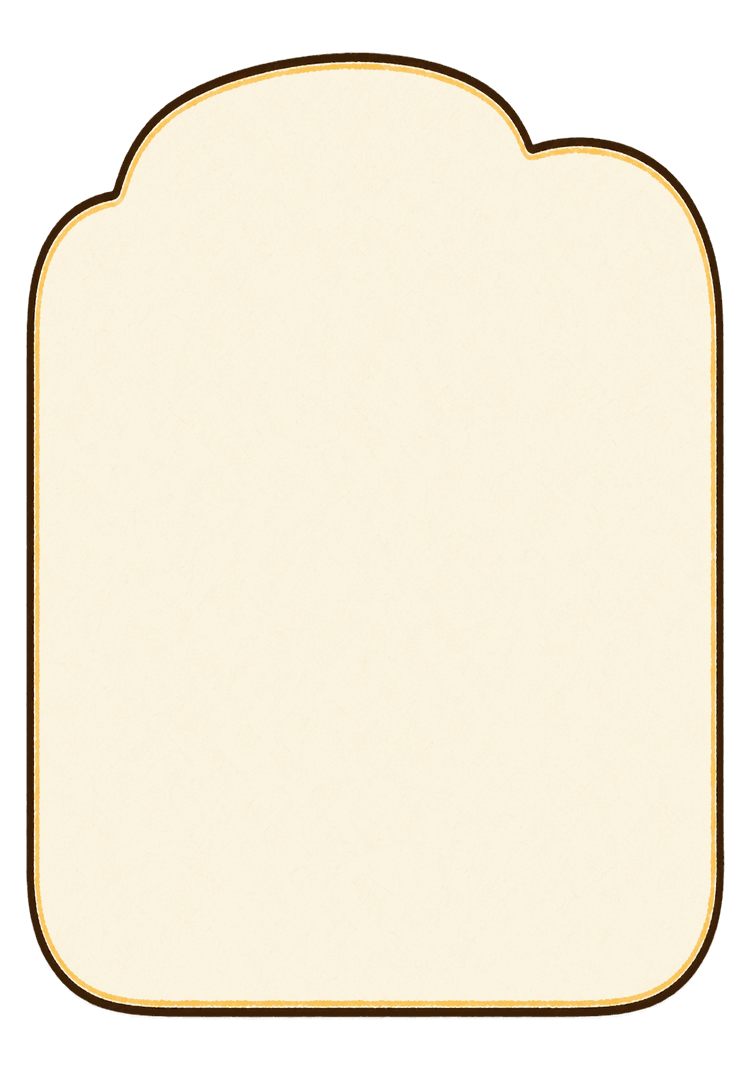
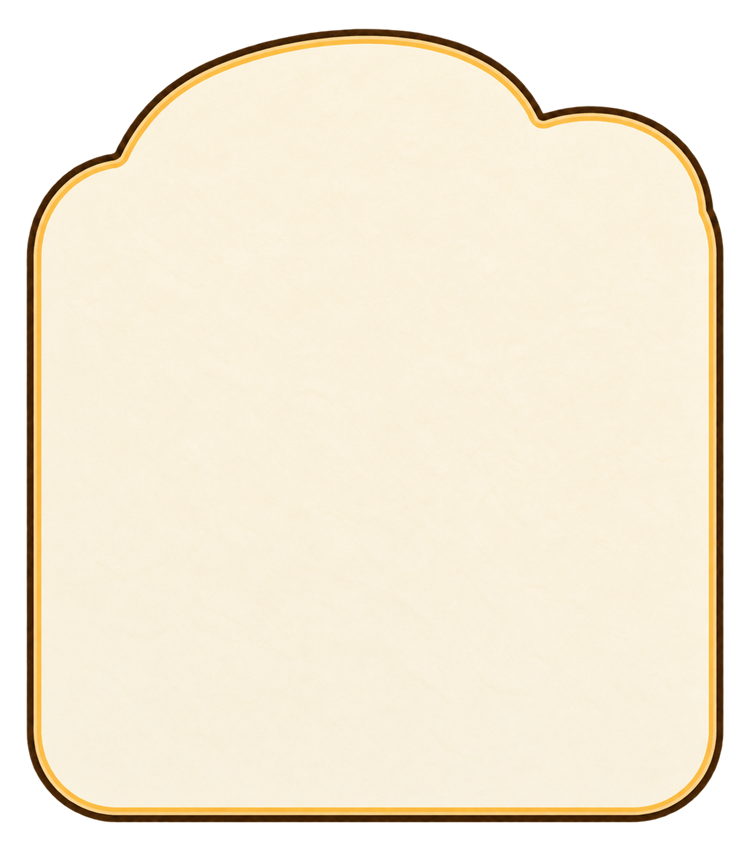
优化了设置弹窗的ui

Changed region(s): [[0.0307, 0.0305, 0.9813, 0.9754]]

diff --git a/assets/script/PauseOverlayController.ts b/assets/script/PauseOverlayController.ts
@@ -30,28 +30,32 @@ const PAUSE_PANEL_HIDDEN_GAP = 32
 const AUDIO_MUSIC_VOLUME_KEY = 'play.audio.musicVolume'
 // 音效音量本地存储键。
 const AUDIO_SOUND_EFFECT_KEY = 'play.audio.soundEffectVolume'
-// 游戏中设置弹窗按 750 × 1334 定稿适配；新版手记面板仍保留足够的横向安全边距。
-const PAUSE_PANEL_WIDTH = 680
-const PAUSE_PANEL_HEIGHT = 900
-const HOME_SETTINGS_PANEL_HEIGHT = 740
-// 设置面板内部已经按定稿比例排好，只统一缩放根节点，避免单独调整控件再次产生错位。
+// 游戏中设置弹窗按 750 × 1334 定稿适配，宽高比与最终设计稿保持一致。
+const PAUSE_PANEL_WIDTH = 660
+const PAUSE_PANEL_HEIGHT = 750
+const HOME_SETTINGS_PANEL_HEIGHT = 750
+// 设置面板内部按统一比例排版，避免不同屏幕上单独拉伸导致错位。
 const SETTINGS_PANEL_SCALE = 0.86
-const PAUSE_AUDIO_ROW_WIDTH = 600
-const PAUSE_AUDIO_ROW_TOUCH_HEIGHT = 150
+const PAUSE_AUDIO_ROW_WIDTH = 560
+const PAUSE_AUDIO_ROW_TOUCH_HEIGHT = 140
 // 音量卡片素材上下带透明留白，显示高度需要按有效内容比例补偿。
-const PAUSE_AUDIO_ROW_ART_HEIGHT = 264
+const PAUSE_AUDIO_ROW_ART_HEIGHT = 245
 const PAUSE_UTILITY_BUTTON_WIDTH = 230
 const PAUSE_UTILITY_BUTTON_HEIGHT = 90
-const PAUSE_GAME_BUTTON_WIDTH = 250
-const PAUSE_GAME_BUTTON_HEIGHT = 88
+const PAUSE_GAME_ACTION_WIDTH = 170
+const PAUSE_GAME_ACTION_HEIGHT = 160
+const PAUSE_GAME_ACTION_ICON_SIZE = 128
+const PAUSE_REPLAY_ACTION_ICON_SIZE = 140
+const PAUSE_CLOSE_ACCENT_WIDTH = 220
+const PAUSE_CLOSE_ACCENT_HEIGHT = 110
 // 滑块轨道略向右收窄，并把旋钮活动区内缩半个旋钮宽度，避免静音时压住左侧图标。
-const PAUSE_SLIDER_TRACK_WIDTH = 324
+const PAUSE_SLIDER_TRACK_WIDTH = 288
 // 填充图左右各约 7% 为透明留白，放大画布后可让实际金色部分与空轨道边缘重合。
-const PAUSE_SLIDER_FILL_ART_WIDTH = 376
+const PAUSE_SLIDER_FILL_ART_WIDTH = 334
 const PAUSE_SLIDER_TRACK_CENTER_X = 0
-const PAUSE_SLIDER_KNOB_WIDTH = 90
-const PAUSE_SLIDER_KNOB_HEIGHT = 96
-const PAUSE_SLIDER_KNOB_VISIBLE_WIDTH = 60
+const PAUSE_SLIDER_KNOB_WIDTH = 82
+const PAUSE_SLIDER_KNOB_HEIGHT = 88
+const PAUSE_SLIDER_KNOB_VISIBLE_WIDTH = 54
 const PAUSE_SLIDER_DEFAULT_KNOB_X =
   PAUSE_SLIDER_TRACK_CENTER_X + PAUSE_SLIDER_TRACK_WIDTH * 0.5 - PAUSE_SLIDER_KNOB_VISIBLE_WIDTH * 0.5
 const PAUSE_TEXT_COLOR = new Color(81, 55, 37, 255)
@@ -62,6 +66,7 @@ const SettingsArtwork = {
   panel: 'panel-background',
   titleIcon: 'icon-settings-flower',
   close: 'button-close',
+  closeAccent: 'close-accent',
   audioRow: 'audio-row-background',
   sound: 'icon-sound',
   music: 'icon-music',
@@ -308,7 +313,7 @@ export class PauseOverlayController extends Component {
     return node
   }
 
-  // 新版手记面板使用内嵌标题、双设置卡片和轻量平台入口，游戏中模式再保留对局操作区。
+  // 设置面板统一使用短版比例；游戏中模式把三个对局操作收在同一行。
   private configurePausePanelLayout() {
     const panel = this.pauseOverlayPanel
     if (!panel) {
@@ -319,7 +324,7 @@ export class PauseOverlayController extends Component {
     const panelHeight = this.isHomeMode ? HOME_SETTINGS_PANEL_HEIGHT : PAUSE_PANEL_HEIGHT
     panelTransform.setContentSize(PAUSE_PANEL_WIDTH, panelHeight)
     panel.setScale(SETTINGS_PANEL_SCALE, SETTINGS_PANEL_SCALE, 1)
-    panel.setPosition(0, this.isHomeMode ? -26 : -70, 0)
+    panel.setPosition(0, this.isHomeMode ? -26 : -38, 0)
     this.pausePanelShownPosition = panel.position.clone()
     this.applyArtwork(panel, SettingsArtwork.panel, PAUSE_PANEL_WIDTH, panelHeight)
     const generatedBackground = panel.getChildByName(GENERATED_BACKGROUND_NAME)
@@ -330,7 +335,7 @@ export class PauseOverlayController extends Component {
     const titleNode = panel.getChildByName('SettingLabel')
     const titleLabel = titleNode?.getComponent(Label) ?? null
     if (titleNode) {
-      titleNode.setPosition(-15, this.isHomeMode ? 240 : 320, 0)
+      titleNode.setPosition(10, this.isHomeMode ? 240 : 245, 0)
       titleNode.getComponent(UITransform)?.setContentSize(280, 104)
       if (titleLabel) {
         titleLabel.enabled = true
@@ -343,27 +348,33 @@ export class PauseOverlayController extends Component {
         titleLabel.verticalAlign = Label.VerticalAlign.CENTER
       }
       const titleArtwork = this.ensureArtworkNode(titleNode, 'TitleArtwork')
-      this.applyArtwork(titleArtwork, SettingsArtwork.titleIcon, 190, 190)
-      titleArtwork.setPosition(-140, 0, 0)
+      this.applyArtwork(titleArtwork, SettingsArtwork.titleIcon, 180, 180)
+      titleArtwork.setPosition(-150, 0, 0)
     }
+
+    const closeAccent = this.ensureArtworkNode(panel, 'CloseAccentArtwork')
+    this.applyArtwork(
+      closeAccent,
+      SettingsArtwork.closeAccent,
+      PAUSE_CLOSE_ACCENT_WIDTH,
+      PAUSE_CLOSE_ACCENT_HEIGHT
+    )
+    closeAccent.setPosition(212, this.isHomeMode ? 225 : 205, 0)
 
     this.closeButtonNode = this.closeButtonNode ?? panel.getChildByName('CloseBtn')
     if (this.closeButtonNode) {
-      this.closeButtonNode.setPosition(280, this.isHomeMode ? 225 : 305, 0)
+      this.closeButtonNode.setPosition(276, this.isHomeMode ? 220 : 200, 0)
       this.applyArtwork(this.closeButtonNode, SettingsArtwork.close, 96, 98)
+      this.closeButtonNode.setSiblingIndex(panel.children.length - 1)
     }
 
     // 节点历史命名不决定视觉顺序；新版统一显示“音效”和“音乐”。
-    this.layoutAudioControl(this.soundEffectControl, this.isHomeMode ? 70 : 150, '音效', SettingsArtwork.sound)
-    this.layoutAudioControl(this.bgMusicControl, this.isHomeMode ? -94 : -14, '音乐', SettingsArtwork.music)
-    this.ensureSeparator(panel, 'AudioSeparator', this.isHomeMode ? -204 : -125)
+    this.layoutAudioControl(this.soundEffectControl, this.isHomeMode ? 70 : 95, '音效', SettingsArtwork.sound)
+    this.layoutAudioControl(this.bgMusicControl, this.isHomeMode ? -94 : -50, '音乐', SettingsArtwork.music)
+    this.ensureSeparator(panel, 'AudioSeparator', this.isHomeMode ? -204 : -135)
     const actionSeparator = panel.getChildByName('ActionSeparator')
-    if (this.isHomeMode) {
-      if (actionSeparator) {
-        actionSeparator.active = false
-      }
-    } else {
-      this.ensureSeparator(panel, 'ActionSeparator', -270)
+    if (actionSeparator) {
+      actionSeparator.active = false
     }
   }
 
@@ -384,16 +395,16 @@ export class PauseOverlayController extends Component {
     this.applyArtwork(rowBackground, SettingsArtwork.audioRow, PAUSE_AUDIO_ROW_WIDTH, PAUSE_AUDIO_ROW_ART_HEIGHT)
 
     const iconNode = this.ensureArtworkNode(control, 'IconArtwork')
-    this.applyArtwork(iconNode, iconArtwork, 88, 92)
-    iconNode.setPosition(-222, 0, 0)
+    this.applyArtwork(iconNode, iconArtwork, 82, 86)
+    iconNode.setPosition(-205, 0, 0)
 
     const labelNode = this.ensureLabelNode(control, 'RowTitle')
-    labelNode.setPosition(-104, 0, 0)
-    labelNode.getComponent(UITransform)?.setContentSize(108, 54)
+    labelNode.setPosition(-94, 0, 0)
+    labelNode.getComponent(UITransform)?.setContentSize(100, 50)
     const label = labelNode.getComponent(Label)!
     label.string = title
-    label.fontSize = 40
-    label.lineHeight = 50
+    label.fontSize = 38
+    label.lineHeight = 48
     label.color = PAUSE_TEXT_COLOR
     label.isBold = true
     label.horizontalAlign = Label.HorizontalAlign.LEFT
@@ -405,7 +416,7 @@ export class PauseOverlayController extends Component {
     }
     slider.setPosition(104, 0, 0)
     const sliderTransform = slider.getComponent(UITransform) ?? slider.addComponent(UITransform)
-    sliderTransform.setContentSize(350, 100)
+    sliderTransform.setContentSize(320, 94)
     sliderTransform.setAnchorPoint(0.5, 0.5)
     const base = slider.getChildByName('SliderBase')
     const fill = slider.getChildByName('Fill')
@@ -413,12 +424,12 @@ export class PauseOverlayController extends Component {
     if (base) {
       base.setPosition(PAUSE_SLIDER_TRACK_CENTER_X, 0, 0)
       ;(base.getComponent(UITransform) ?? base.addComponent(UITransform)).setAnchorPoint(0.5, 0.5)
-      this.applyArtwork(base, SettingsArtwork.sliderTrack, PAUSE_SLIDER_TRACK_WIDTH, 40)
+      this.applyArtwork(base, SettingsArtwork.sliderTrack, PAUSE_SLIDER_TRACK_WIDTH, 36)
     }
     if (fill) {
       fill.setPosition(PAUSE_SLIDER_TRACK_CENTER_X, 0, 0)
       ;(fill.getComponent(UITransform) ?? fill.addComponent(UITransform)).setAnchorPoint(0.5, 0.5)
-      this.applyArtwork(fill, SettingsArtwork.sliderFill, PAUSE_SLIDER_FILL_ART_WIDTH, 100)
+      this.applyArtwork(fill, SettingsArtwork.sliderFill, PAUSE_SLIDER_FILL_ART_WIDTH, 92)
     }
     if (knob) {
       knob.setPosition(PAUSE_SLIDER_DEFAULT_KNOB_X, 0, 0)
@@ -482,7 +493,7 @@ export class PauseOverlayController extends Component {
     }
   }
 
-  // 固定按钮优先复用 Scene 节点；迁移期缺失的分享、反馈挂点只补到明确的固定容器中。
+  // 固定按钮优先复用 Scene 节点；游戏内只绑定分享、重玩和返回首页。
   private bindPauseActionButtons() {
     this.replayButtonNode = this.isHomeMode ? null : this.findExistingPauseActionNode(['Repay', 'Replay'])
     this.homeButtonNode = this.isHomeMode ? null : this.findExistingPauseActionNode(['Home'])
@@ -490,32 +501,42 @@ export class PauseOverlayController extends Component {
     this.bindPauseActionButton(this.replayButtonNode, this.onReplayButtonTap)
     this.bindPauseActionButton(this.homeButtonNode, this.onHomeButtonTap)
     this.bindPauseActionButton(this.shareButtonNode, this.onShareButtonTap)
-    this.bindPauseActionButton(this.feedbackButtonNode, this.onFeedbackButtonTap)
+    if (this.isHomeMode) {
+      this.bindPauseActionButton(this.feedbackButtonNode, this.onFeedbackButtonTap)
+    } else {
+      this.unbindPauseActionButton(this.feedbackButtonNode, this.onFeedbackButtonTap)
+    }
   }
 
-  // 平台入口保持轻量图文排布；游戏操作仍单独占一行并保持等宽同高。
+  // 游戏内三个操作等距排成一行；首页继续保留原有平台入口。
   private layoutPauseActionButtons() {
     if (!this.pauseOverlayPanel) {
       return
     }
 
-    this.utilityActionsNode?.setPosition(0, this.isHomeMode ? -268 : -190, 0)
-    this.gameActionsNode?.setPosition(0, -345, 0)
+    if (this.isHomeMode) {
+      this.utilityActionsNode?.setPosition(0, -268, 0)
+      if (this.utilityActionsNode) {
+        this.utilityActionsNode.active = true
+      }
+      if (this.gameActionsNode) {
+        this.gameActionsNode.active = false
+      }
+      this.shareButtonNode?.setPosition(-136, 0, 0)
+      this.feedbackButtonNode?.setPosition(166, 0, 0)
+      return
+    }
+
+    if (this.utilityActionsNode) {
+      this.utilityActionsNode.active = false
+    }
+    this.gameActionsNode?.setPosition(0, -232, 0)
     if (this.gameActionsNode) {
-      this.gameActionsNode.active = !this.isHomeMode
+      this.gameActionsNode.active = true
     }
-    if (this.canUseNode(this.shareButtonNode)) {
-      this.shareButtonNode.setPosition(-136, 0, 0)
-    }
-    if (this.canUseNode(this.feedbackButtonNode)) {
-      this.feedbackButtonNode.setPosition(166, 0, 0)
-    }
-    if (this.canUseNode(this.homeButtonNode)) {
-      this.homeButtonNode.setPosition(-140, 0, 0)
-    }
-    if (this.canUseNode(this.replayButtonNode)) {
-      this.replayButtonNode.setPosition(140, 0, 0)
-    }
+    this.shareButtonNode?.setPosition(-190, 0, 0)
+    this.replayButtonNode?.setPosition(0, 0, 0)
+    this.homeButtonNode?.setPosition(190, 0, 0)
   }
 
   private ensurePauseActionStructure() {
@@ -525,7 +546,7 @@ export class PauseOverlayController extends Component {
     }
 
     this.utilityActionsNode = this.ensureContainer(panel, 'UtilityActions', 620, PAUSE_UTILITY_BUTTON_HEIGHT)
-    this.gameActionsNode = this.ensureContainer(panel, 'GameActions', 620, PAUSE_GAME_BUTTON_HEIGHT)
+    this.gameActionsNode = this.ensureContainer(panel, 'GameActions', 620, PAUSE_GAME_ACTION_HEIGHT)
     this.shareButtonNode =
       this.findChildDeep(panel, ['ShareButton', 'Share']) ?? this.createActionNode(this.utilityActionsNode, 'ShareButton')
     this.feedbackButtonNode =
@@ -537,20 +558,75 @@ export class PauseOverlayController extends Component {
       this.replayButtonNode = this.replayButtonNode ?? this.createActionNode(this.gameActionsNode, 'Replay')
     }
 
-    this.moveNodeToContainer(this.shareButtonNode, this.utilityActionsNode)
-    this.moveNodeToContainer(this.feedbackButtonNode, this.utilityActionsNode)
-    this.moveNodeToContainer(this.homeButtonNode, this.gameActionsNode)
-    this.moveNodeToContainer(this.replayButtonNode, this.gameActionsNode)
+    if (this.isHomeMode) {
+      this.moveNodeToContainer(this.shareButtonNode, this.utilityActionsNode)
+      this.moveNodeToContainer(this.feedbackButtonNode, this.utilityActionsNode)
+      this.styleUtilityActionButton(this.shareButtonNode, SettingsArtwork.share, '分享好友', 64, 66)
+      this.styleUtilityActionButton(this.feedbackButtonNode, SettingsArtwork.feedback, '客服反馈', 68, 78)
+      return
+    }
 
-    this.styleUtilityActionButton(this.shareButtonNode, SettingsArtwork.share, '分享好友', 64, 66)
-    this.styleUtilityActionButton(this.feedbackButtonNode, SettingsArtwork.feedback, '客服反馈', 68, 78)
-    this.styleArtworkButton(this.homeButtonNode, SettingsArtwork.home, PAUSE_GAME_BUTTON_WIDTH, PAUSE_GAME_BUTTON_HEIGHT)
-    this.styleArtworkButton(
+    this.moveNodeToContainer(this.shareButtonNode, this.gameActionsNode)
+    this.moveNodeToContainer(this.replayButtonNode, this.gameActionsNode)
+    this.moveNodeToContainer(this.homeButtonNode, this.gameActionsNode)
+    if (this.feedbackButtonNode) {
+      this.feedbackButtonNode.active = false
+    }
+    this.styleGameActionButton(this.shareButtonNode, SettingsArtwork.share, '分享')
+    this.styleGameActionButton(
       this.replayButtonNode,
       SettingsArtwork.replay,
-      PAUSE_GAME_BUTTON_WIDTH,
-      PAUSE_GAME_BUTTON_HEIGHT
+      '重玩',
+      PAUSE_REPLAY_ACTION_ICON_SIZE
     )
+    this.styleGameActionButton(this.homeButtonNode, SettingsArtwork.home, '返回')
+  }
+
+  // 图标是主要识别元素，文字只做简短补充；根节点保留较大的触摸区域。
+  private styleGameActionButton(
+    node: Node | null,
+    artwork: string,
+    text: string,
+    iconSize = PAUSE_GAME_ACTION_ICON_SIZE
+  ) {
+    if (!this.canUseNode(node)) {
+      return
+    }
+
+    node.active = true
+    const transform = node.getComponent(UITransform) ?? node.addComponent(UITransform)
+    transform.setContentSize(PAUSE_GAME_ACTION_WIDTH, PAUSE_GAME_ACTION_HEIGHT)
+    const rootSprite = node.getComponent(Sprite)
+    if (rootSprite) {
+      rootSprite.enabled = false
+    }
+    const rootLabel = node.getComponent(Label)
+    if (rootLabel) {
+      rootLabel.enabled = false
+    }
+
+    for (const child of node.children) {
+      if (child.name !== 'Icon' && child.name !== 'Text') {
+        child.active = false
+      }
+    }
+
+    const iconNode = this.ensureArtworkNode(node, 'Icon')
+    this.applyArtwork(iconNode, artwork, iconSize, iconSize)
+    iconNode.setPosition(0, 24, 0)
+
+    const textNode = this.ensureLabelNode(node, 'Text')
+    textNode.setPosition(0, -58, 0)
+    textNode.getComponent(UITransform)?.setContentSize(150, 46)
+    const label = textNode.getComponent(Label)!
+    label.enabled = true
+    label.string = text
+    label.fontSize = 34
+    label.lineHeight = 42
+    label.color = PAUSE_TEXT_COLOR
+    label.isBold = true
+    label.horizontalAlign = Label.HorizontalAlign.CENTER
+    label.verticalAlign = Label.VerticalAlign.CENTER
   }
 
   // 平台入口只保留图标与文字，根节点继续承担完整触摸热区，避免视觉变轻后难以点击。

diff --git a/assets/script/HomeSceneController.ts b/assets/script/HomeSceneController.ts
@@ -171,21 +171,9 @@ export class HomeSceneController extends Component {
     this.enterGameScene()
   }
 
-  // 首页商店入口用于手动补充技能；已有未结束对局时仍直接续局，避免覆盖当前棋盘快照。
+  // 首页商店是独立入口，只负责展示和购买技能，不参与新开或续局流程。
   private openSkillShop() {
     if (this.isLoadingGameScene) {
-      return
-    }
-
-    if (OngoingGameSession.hasActiveGame()) {
-      this.enterOngoingGameScene()
-      return
-    }
-
-    if (!this.canStartNewGame()) {
-      this.closeSkillShop()
-      this.startPageController?.showMessage('体力不足，请先点击体力条补充')
-      this.refreshPlayerResources()
       return
     }
 

diff --git a/assets/script/StartPageController.ts b/assets/script/StartPageController.ts
@@ -2039,7 +2039,7 @@ export class StartPageController extends Component {
 
   private handleCoinResourceTap(event: EventTouch) {
     event.propagationStopped = true
-    this.shopHandler?.()
+    // 金币入口暂未开放，仅拦截点击，避免事件落到其他首页按钮。
   }
 
   private handleEnergyMoreTap(event: EventTouch) {

diff --git a/README.md b/README.md
@@ -48,7 +48,7 @@ tools/wechat-startup-page/     微信构建后处理
 - `PlayUIController`：界面渲染。
 - `PauseOverlayController`：设置弹窗、音量和暂停操作。
 
-设置弹窗使用 `resources/Settings` 中的手绘素材，整体按 86% 等比显示。
+设置弹窗使用 `resources/Settings` 中的手绘素材，整体按 86% 等比显示；游戏内提供分享、重玩和返回。
 
 ## 注意事项
 
